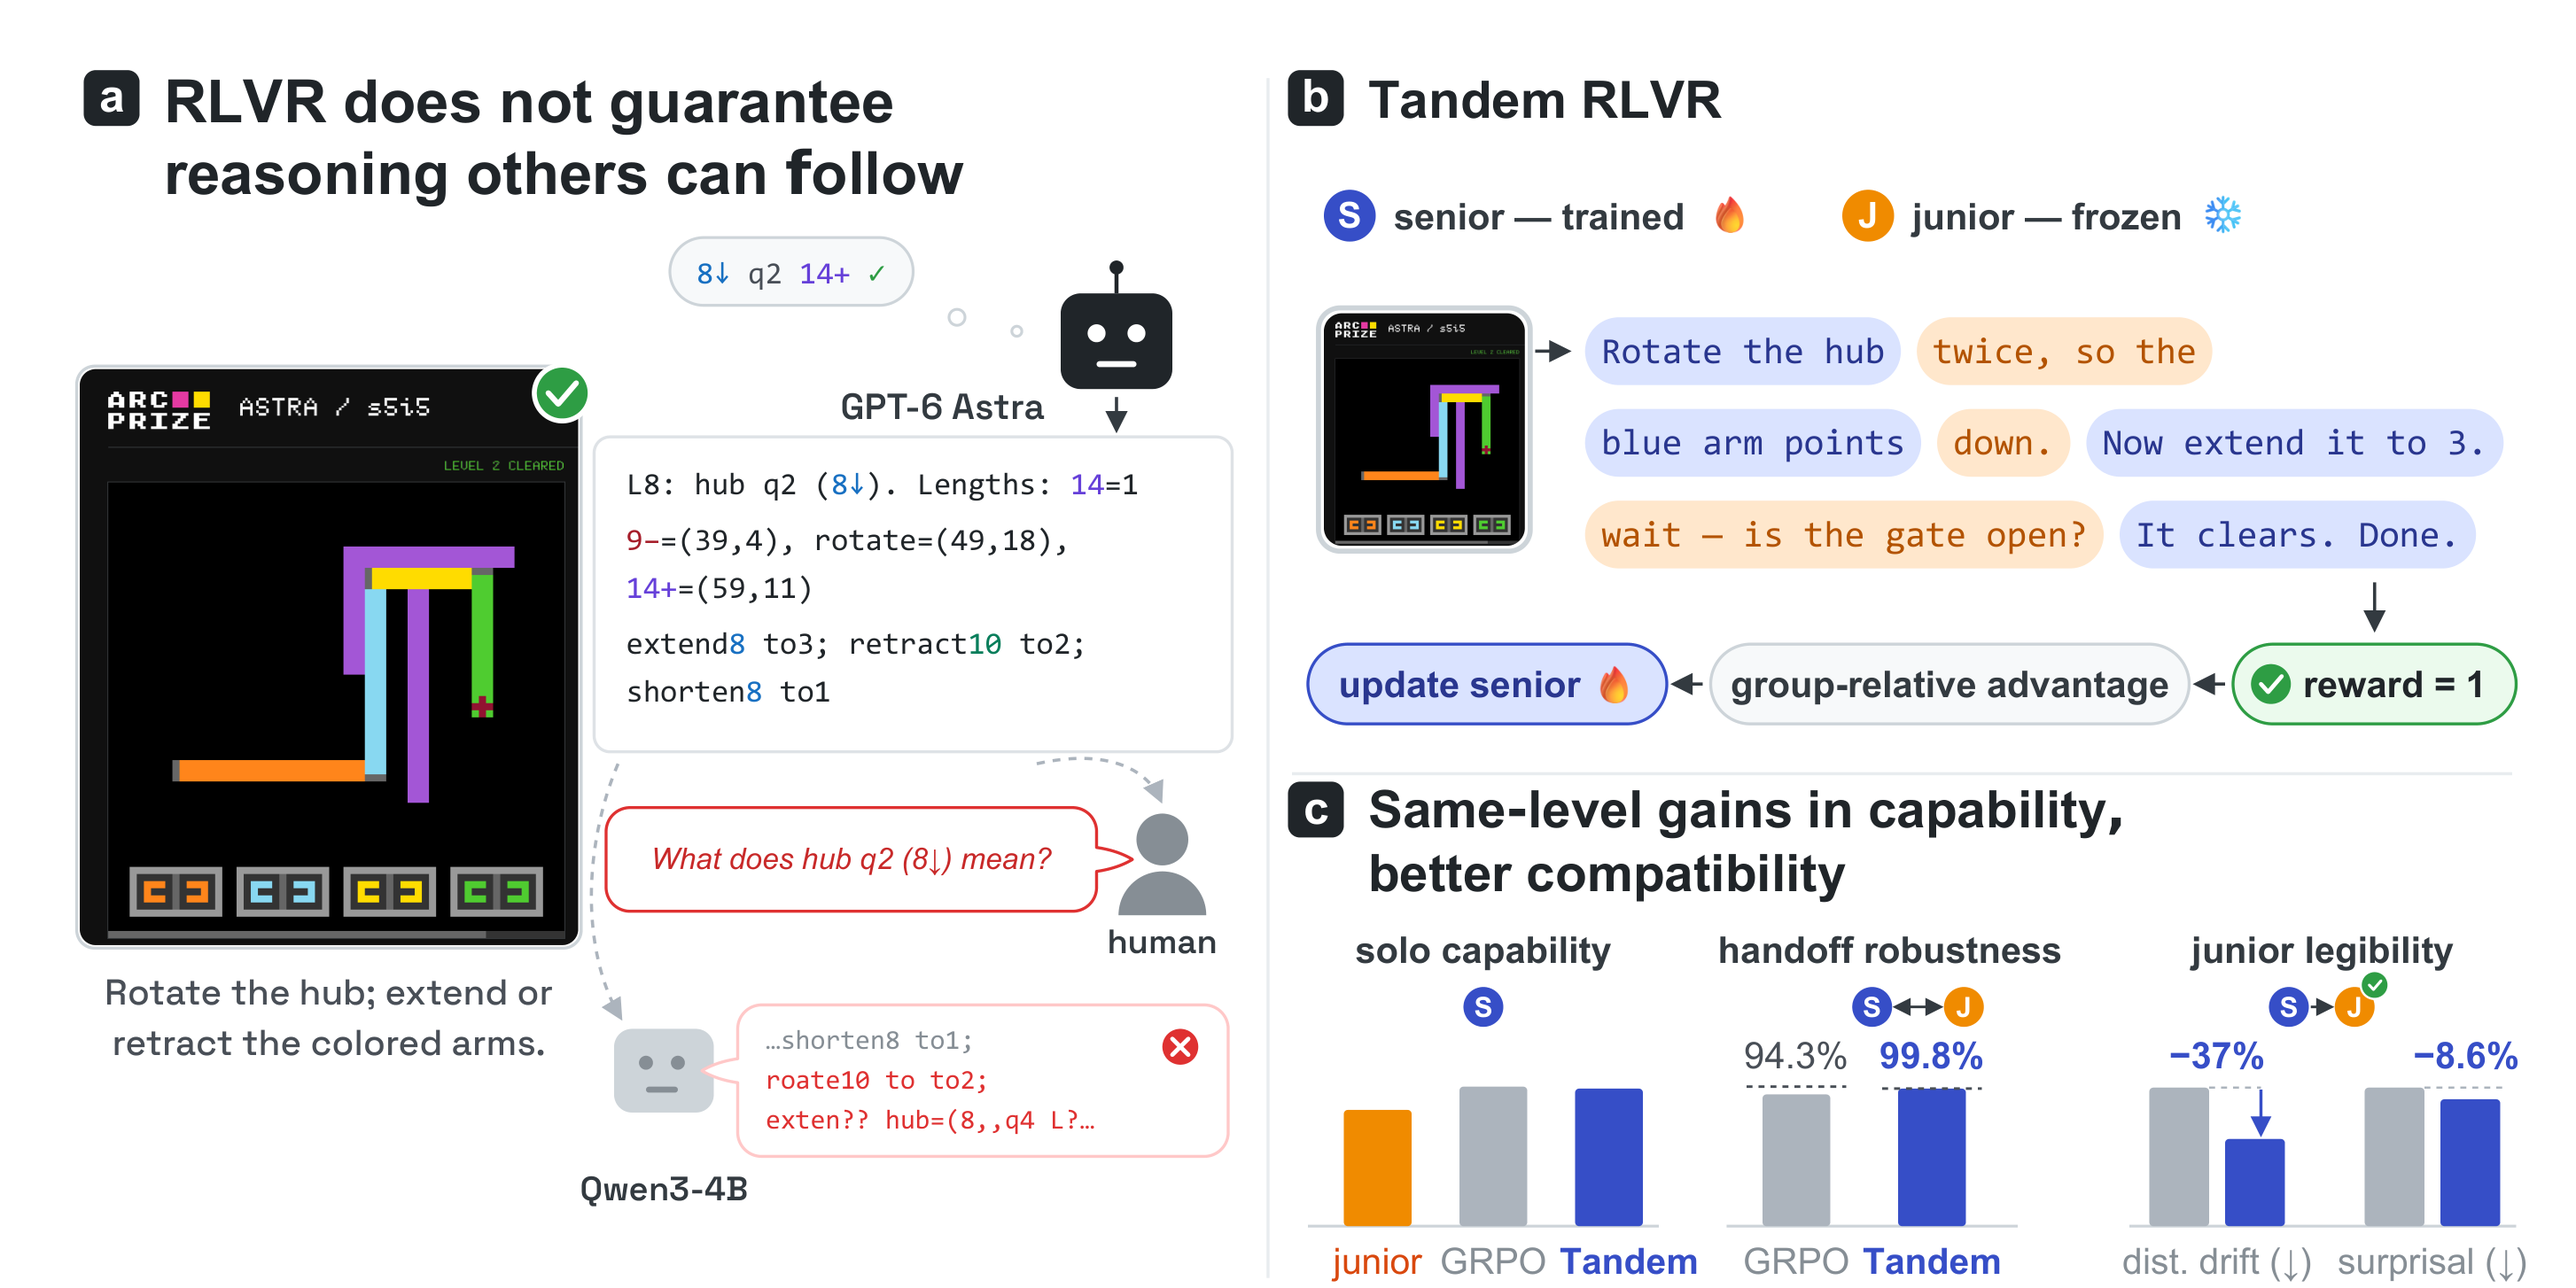
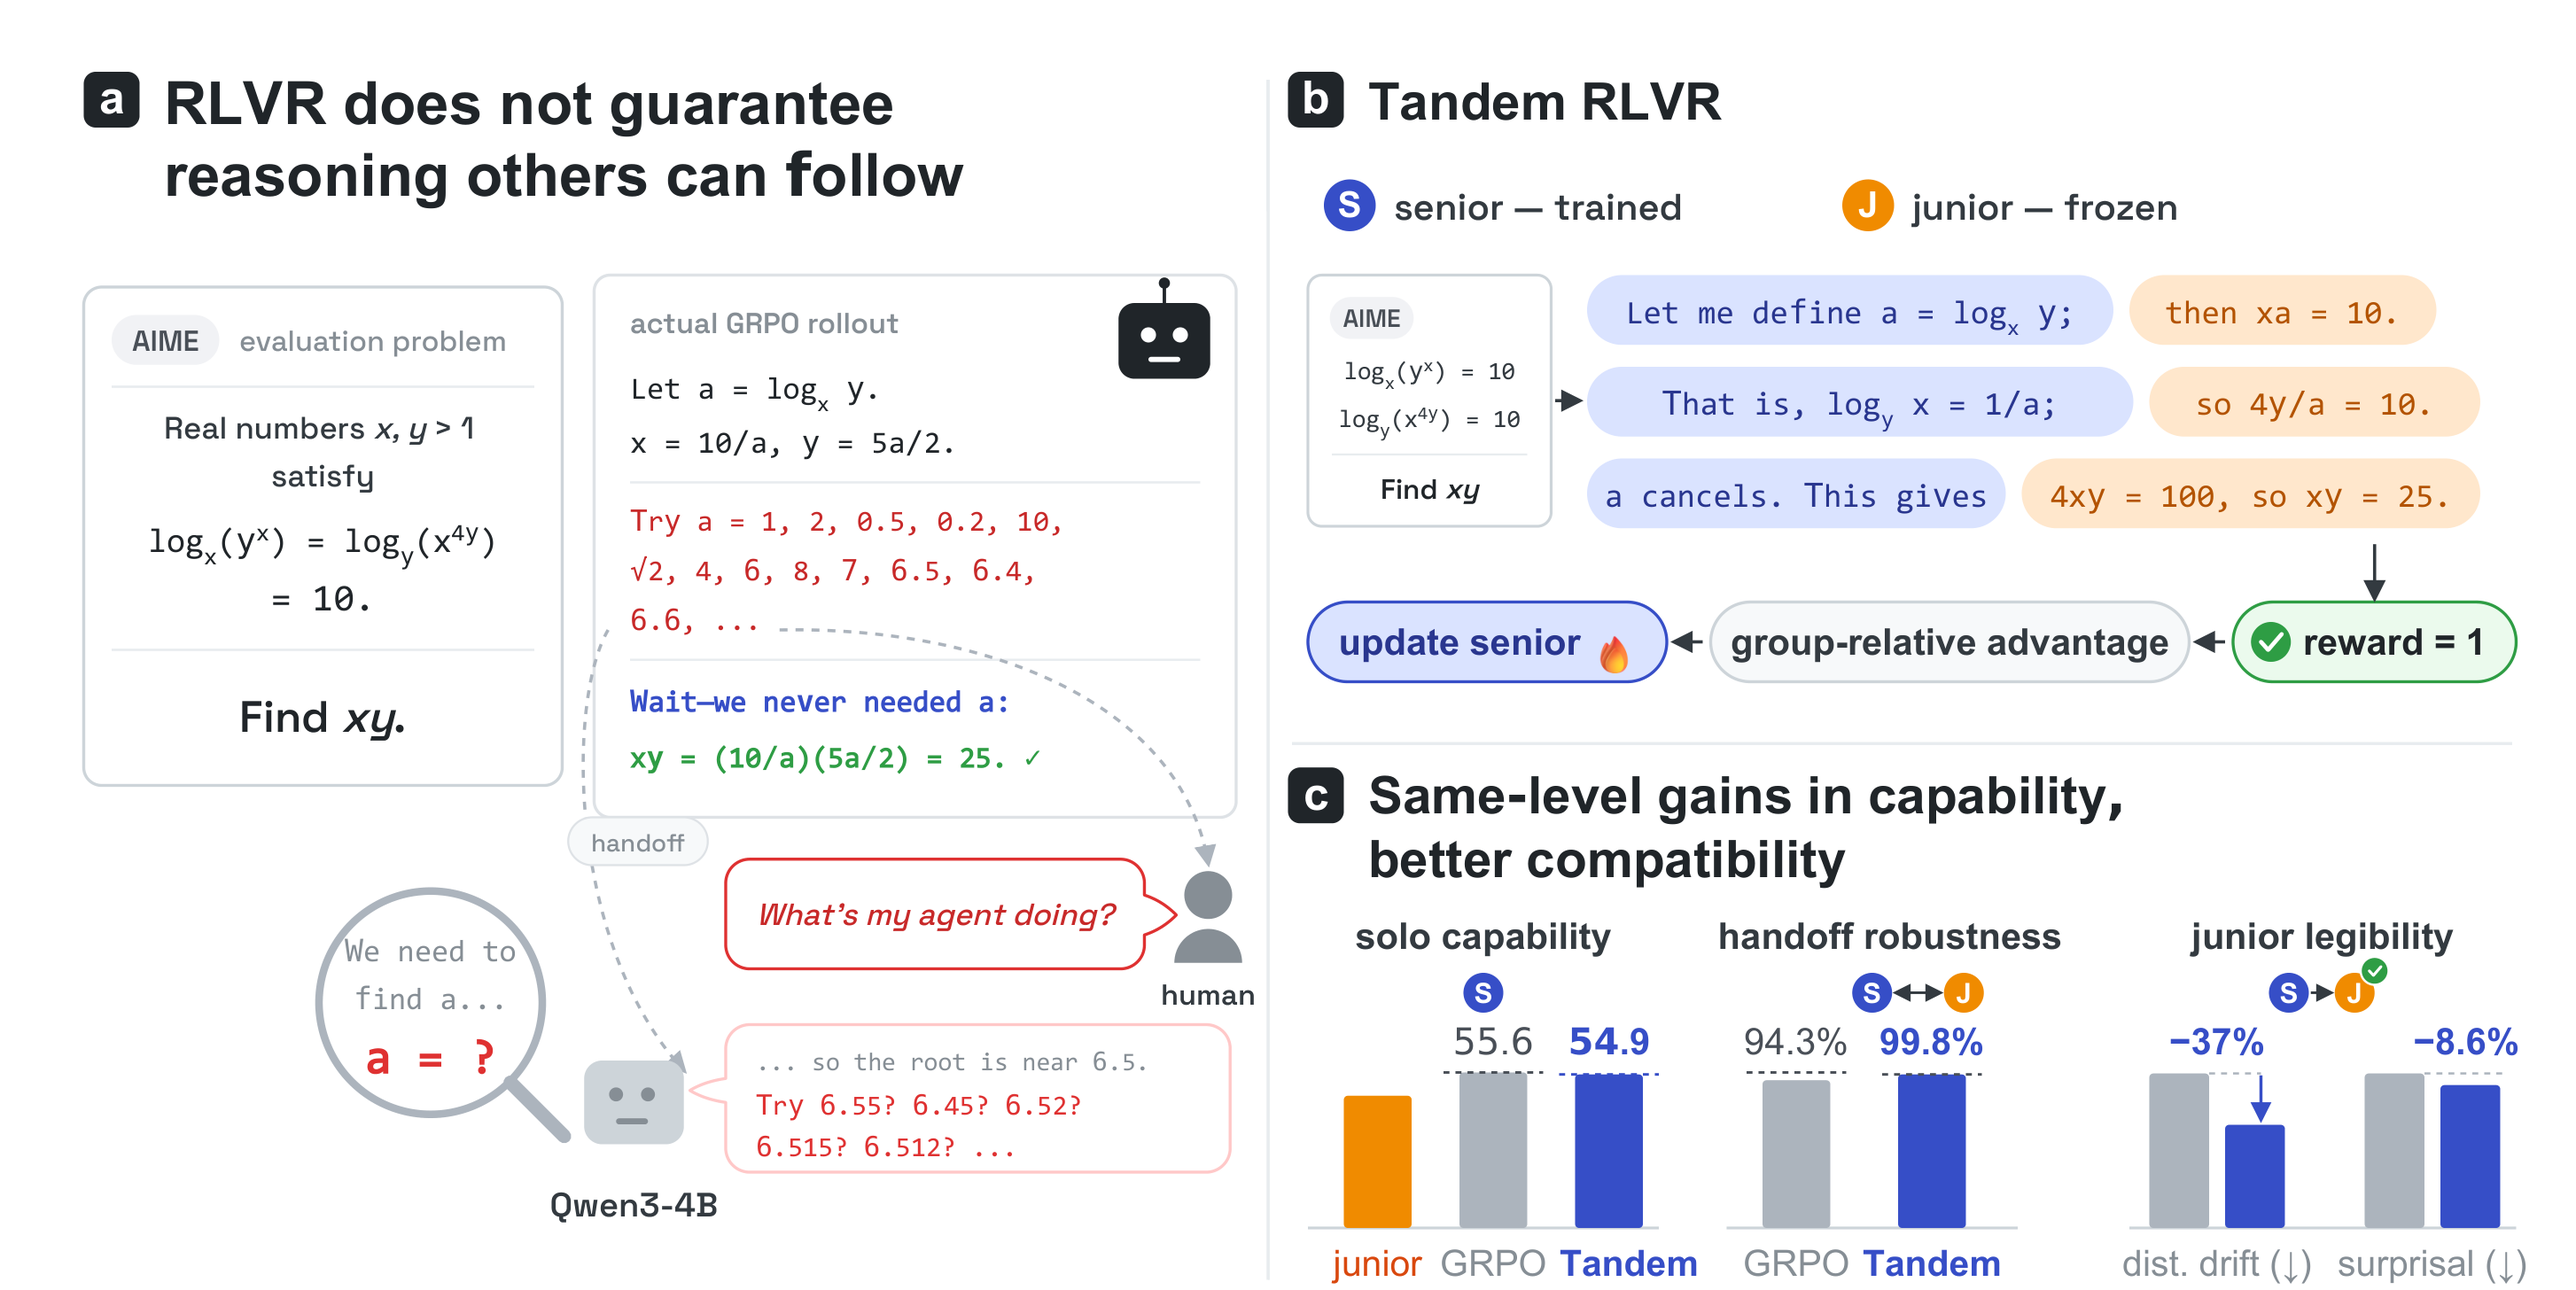
iclr refactor

diff --git a/README.md b/README.md
@@ -5,9 +5,9 @@
 RLVR raises a model's reasoning ability without any pressure to keep that reasoning legible to the
 weaker models and people it has to work with. TRLVR changes one thing in the rollout: every rollout
 is co-generated with a frozen junior, a copy of the senior's own pre-RL base, and the policy
-gradient covers only the tokens the senior wrote. One change to the rollout, three properties: the
-TRLVR senior retains its solo capability, keeps almost all of it when the junior takes over half
-the reasoning, and keeps its reasoning in language the junior can follow.
+gradient covers only the tokens the senior wrote. On competition math, the Tandem RLVR senior
+matches GRPO in solo reasoning capability, retains nearly all of that capability when the junior
+takes over half the reasoning, and expresses its reasoning in language the junior can follow.
 
 ![Tandem RLVR](docs/teaser.png)
 
